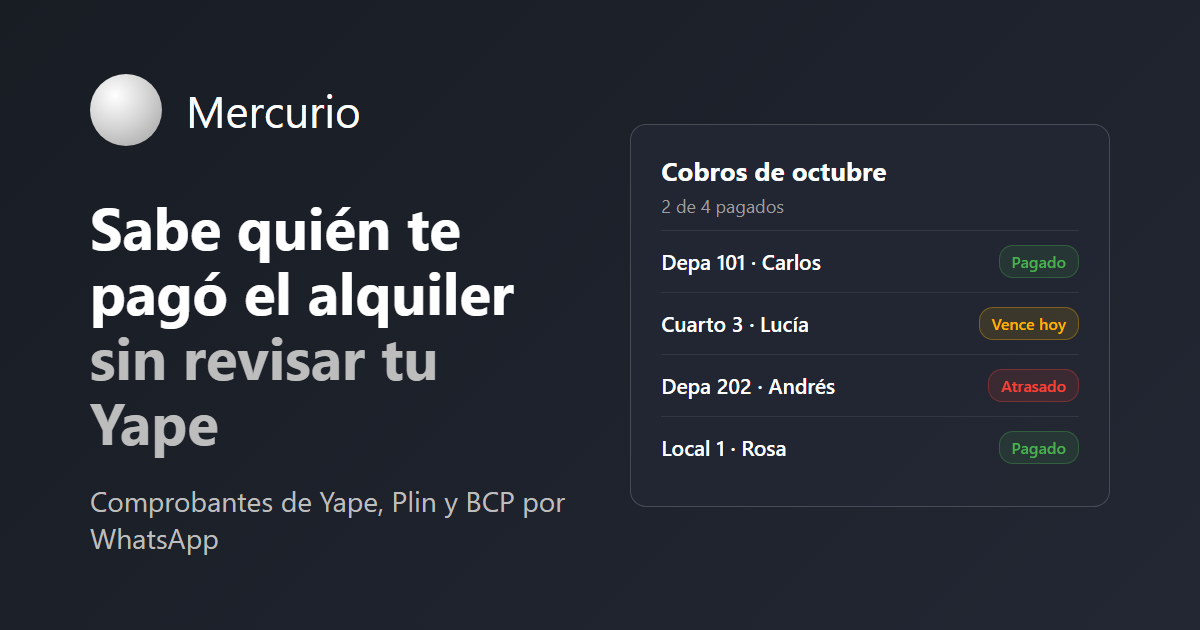
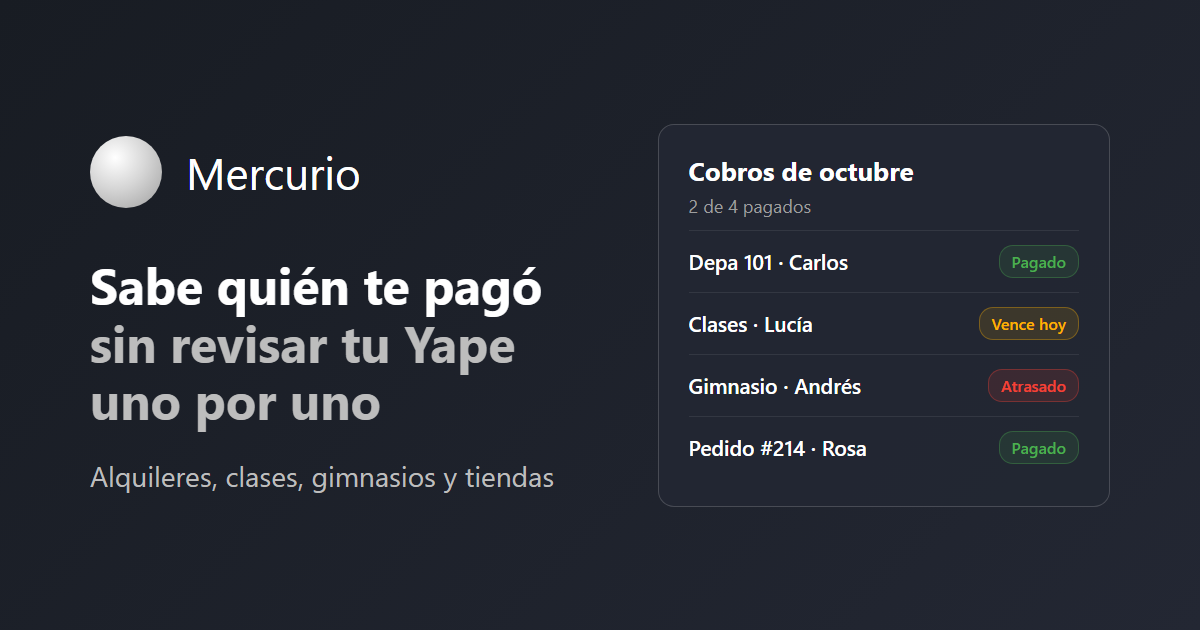
feat(landing): broaden home from landlords to any business paid by Yape/Plin
Rentals were too narrow a position and would turn away other customers.
Keep "know who paid you" as the promise and present rentals as one use
case next to classes and academies, gyms and memberships, and shops.

- New use-cases section right after the hero
- Hero, board example, how it works, FAQ, pricing and meta copy use
  "clientes" instead of "inquilinos"; business plan renamed Empresas
- Share image and tests updated

diff --git a/src/components/sections/UseCases.tsx b/src/components/sections/UseCases.tsx
@@ -1,0 +1,75 @@
+'use client';
+
+import React from 'react';
+import { Box, Container, Typography, Card, CardContent } from '@mui/material';
+import { Apartment, School, FitnessCenter, Storefront } from '@mui/icons-material';
+import { useIntl } from '@/i18n/IntlProvider';
+
+interface UseCase {
+  icon: React.ReactElement;
+  color: string;
+  titleKey: string;
+  descKey: string;
+}
+
+const USE_CASES: UseCase[] = [
+  { icon: <Apartment />, color: '#00bcd4', titleKey: 'useCases.rentals', descKey: 'useCases.rentalsDesc' },
+  { icon: <School />, color: '#FFB300', titleKey: 'useCases.classes', descKey: 'useCases.classesDesc' },
+  { icon: <FitnessCenter />, color: '#F44336', titleKey: 'useCases.memberships', descKey: 'useCases.membershipsDesc' },
+  { icon: <Storefront />, color: '#4CAF50', titleKey: 'useCases.stores', descKey: 'useCases.storesDesc' },
+];
+
+/** Who Mercurio is for: answers "is this for me?" right after the hero. */
+const UseCases: React.FC = () => {
+  const { t } = useIntl();
+
+  return (
+    <Box component="section" id="use-cases" sx={{ py: 12, background: '#181C23' }}>
+      <Container maxWidth="lg">
+        <Box sx={{ textAlign: 'center', mb: 8 }}>
+          <Typography
+            variant="h2"
+            sx={{
+              mb: 2,
+              background: 'linear-gradient(135deg, #FFFFFF 0%, #BDBDBD 100%)',
+              backgroundClip: 'text',
+              WebkitBackgroundClip: 'text',
+              color: 'transparent',
+              fontWeight: 700,
+            }}
+          >
+            {t('useCases.sectionTitle')}
+          </Typography>
+          <Typography variant="body1" sx={{ color: 'text.secondary', fontSize: '1.25rem', maxWidth: 620, mx: 'auto' }}>
+            {t('useCases.sectionSubtitle')}
+          </Typography>
+        </Box>
+
+        <Box sx={{ display: 'grid', gridTemplateColumns: { xs: '1fr', sm: 'repeat(2, 1fr)', md: 'repeat(4, 1fr)' }, gap: 3 }}>
+          {USE_CASES.map((useCase) => (
+            <Card
+              key={useCase.titleKey}
+              sx={{ height: '100%', background: 'rgba(35, 39, 51, 0.6)', border: `1px solid ${useCase.color}26` }}
+            >
+              <CardContent sx={{ p: 3.5 }}>
+                <Box
+                  sx={{ display: 'inline-flex', p: 1.5, borderRadius: 2, background: `${useCase.color}1A`, color: useCase.color, mb: 2 }}
+                >
+                  {React.cloneElement(useCase.icon as React.ReactElement<{ sx?: object }>, { sx: { fontSize: 28 } })}
+                </Box>
+                <Typography variant="h6" component="h3" sx={{ mb: 1, color: 'white', fontWeight: 600 }}>
+                  {t(useCase.titleKey)}
+                </Typography>
+                <Typography variant="body2" sx={{ color: 'text.secondary', lineHeight: 1.7 }}>
+                  {t(useCase.descKey)}
+                </Typography>
+              </CardContent>
+            </Card>
+          ))}
+        </Box>
+      </Container>
+    </Box>
+  );
+};
+
+export default UseCases;

diff --git a/tests/marketing.spec.ts b/tests/marketing.spec.ts
@@ -16,7 +16,7 @@ test.describe('Marketing site', () => {
   test('Spanish home renders hero, nav and pricing', async ({ page }) => {
     await page.goto('/es/');
 
-    await expect(page.getByRole('heading', { name: /sabe quién te pagó el alquiler/i })).toBeVisible();
+    await expect(page.getByRole('heading', { name: /sabe quién te pagó/i })).toBeVisible();
     // Nav present with a pricing link
     await expect(page.getByRole('link', { name: /precios/i }).first()).toBeVisible();
     // Pricing section shows the real Culqi PEN price for Pro
@@ -26,25 +26,25 @@ test.describe('Marketing site', () => {
 
   test('English home renders translated hero', async ({ page }) => {
     await page.goto('/en/');
-    await expect(page.getByRole('heading', { name: /know who paid the rent/i })).toBeVisible();
+    await expect(page.getByRole('heading', { name: /know who paid you/i })).toBeVisible();
   });
 
   test('dedicated pricing page lists the three plans', async ({ page }) => {
     await page.goto('/es/pricing/');
     await expect(page.getByRole('heading', { name: /gratis/i }).first()).toBeVisible();
     await expect(page.getByRole('heading', { name: /^pro$/i }).first()).toBeVisible();
-    await expect(page.getByRole('heading', { name: /administradoras/i }).first()).toBeVisible();
+    await expect(page.getByRole('heading', { name: /^empresas$/i }).first()).toBeVisible();
     await expect(page.getByText('S/29').first()).toBeVisible();
   });
 
   test('language switch swaps locale and URL', async ({ page }) => {
     await page.goto('/es/');
-    await expect(page.getByRole('heading', { name: /sabe quién te pagó el alquiler/i })).toBeVisible();
+    await expect(page.getByRole('heading', { name: /sabe quién te pagó/i })).toBeVisible();
 
     await page.getByRole('button', { name: /toggle language/i }).first().click();
 
     await page.waitForURL(/\/en\/?$/, { timeout: 10000 });
-    await expect(page.getByRole('heading', { name: /know who paid the rent/i })).toBeVisible();
+    await expect(page.getByRole('heading', { name: /know who paid you/i })).toBeVisible();
   });
 
   test('home exposes FAQ structured data matching the visible FAQ', async ({ page }) => {
@@ -55,6 +55,13 @@ test.describe('Marketing site', () => {
     expect(faq?.mainEntity?.length).toBe(8);
     const firstQuestion = faq?.mainEntity?.[0]?.name ?? '';
     await expect(page.getByRole('button', { name: firstQuestion })).toBeVisible();
+  });
+
+  test('home lists the use cases beyond rentals', async ({ page }) => {
+    await page.goto('/es/');
+    for (const name of [/alquileres/i, /clases y academias/i, /gimnasios y membresías/i, /tiendas y emprendimientos/i]) {
+      await expect(page.getByRole('heading', { name })).toBeVisible();
+    }
   });
 
   test('primary hero CTA links to signup', async ({ page }) => {

diff --git a/tests/registration.spec.ts b/tests/registration.spec.ts
@@ -42,7 +42,7 @@ test.describe('User Registration Flow', () => {
     ).toBeVisible({ timeout: 10000 });
 
     // Step 2: Fill registration form
-    await page.getByLabel(/business or property/i).fill(testUser.organizationName);
+    await page.getByLabel(/name of your business/i).fill(testUser.organizationName);
     await page.getByLabel(/first name/i).fill(testUser.firstName);
     await page.getByLabel(/last name/i).fill(testUser.lastName);
     await page.getByLabel(/email/i).fill(testUser.email);
@@ -98,7 +98,7 @@ test.describe('User Registration Flow', () => {
     ).toBeVisible({ timeout: 10000 });
 
     // Fill form with weak password
-    await page.getByLabel(/business or property/i).fill('Test Org Weak Password');
+    await page.getByLabel(/name of your business/i).fill('Test Org Weak Password');
     await page.getByLabel(/first name/i).fill('Test');
     await page.getByLabel(/last name/i).fill('User');
     await page.getByLabel(/email/i).fill('weak-password-test@example.com');
@@ -128,7 +128,7 @@ test.describe('User Registration Flow', () => {
     ).toBeVisible({ timeout: 10000 });
 
     // Fill form with mismatched passwords
-    await page.getByLabel(/business or property/i).fill('Test Org Mismatch');
+    await page.getByLabel(/name of your business/i).fill('Test Org Mismatch');
     await page.getByLabel(/first name/i).fill('Test');
     await page.getByLabel(/last name/i).fill('User');
     await page.getByLabel(/email/i).fill('mismatch-test@example.com');

diff --git a/src/components/rocket/LaunchPad.tsx b/src/components/rocket/LaunchPad.tsx
@@ -20,9 +20,9 @@ interface BoardRow {
 /** Illustrative data for the hero board. Totals must match `hero.board.summary`. */
 const BOARD_ROWS: BoardRow[] = [
   { labelKey: 'hero.board.row1', amount: '1,200', status: 'paid', statusKey: 'hero.board.paidYape' },
-  { labelKey: 'hero.board.row2', amount: '450', status: 'due', statusKey: 'hero.board.dueToday' },
-  { labelKey: 'hero.board.row3', amount: '950', status: 'overdue', statusKey: 'hero.board.overdue' },
-  { labelKey: 'hero.board.row4', amount: '2,000', status: 'paid', statusKey: 'hero.board.paidBcp' },
+  { labelKey: 'hero.board.row2', amount: '250', status: 'due', statusKey: 'hero.board.dueToday' },
+  { labelKey: 'hero.board.row3', amount: '120', status: 'overdue', statusKey: 'hero.board.overdue' },
+  { labelKey: 'hero.board.row4', amount: '380', status: 'paid', statusKey: 'hero.board.paidBcp' },
 ];
 
 const STATUS_STYLES: Record<PaymentStatus, { color: string; icon: React.ReactElement }> = {

diff --git a/src/app/[locale]/page.tsx b/src/app/[locale]/page.tsx
@@ -6,6 +6,7 @@ import Navbar from '@/components/layout/Navbar';
 import Footer from '@/components/layout/Footer';
 import LaunchPad from '@/components/rocket/LaunchPad';
 import TrustStrip from '@/components/sections/TrustStrip';
+import UseCases from '@/components/sections/UseCases';
 import PainPoints from '@/components/sections/PainPoints';
 import HowItWorks from '@/components/sections/HowItWorks';
 import RocketFeatures from '@/components/rocket/RocketFeatures';
@@ -38,6 +39,7 @@ export default async function HomePage({ params }: { params: Promise<{ locale: s
       <main>
         <LaunchPad />
         <TrustStrip />
+        <UseCases />
         <PainPoints />
         <HowItWorks />
         <RocketFeatures />
